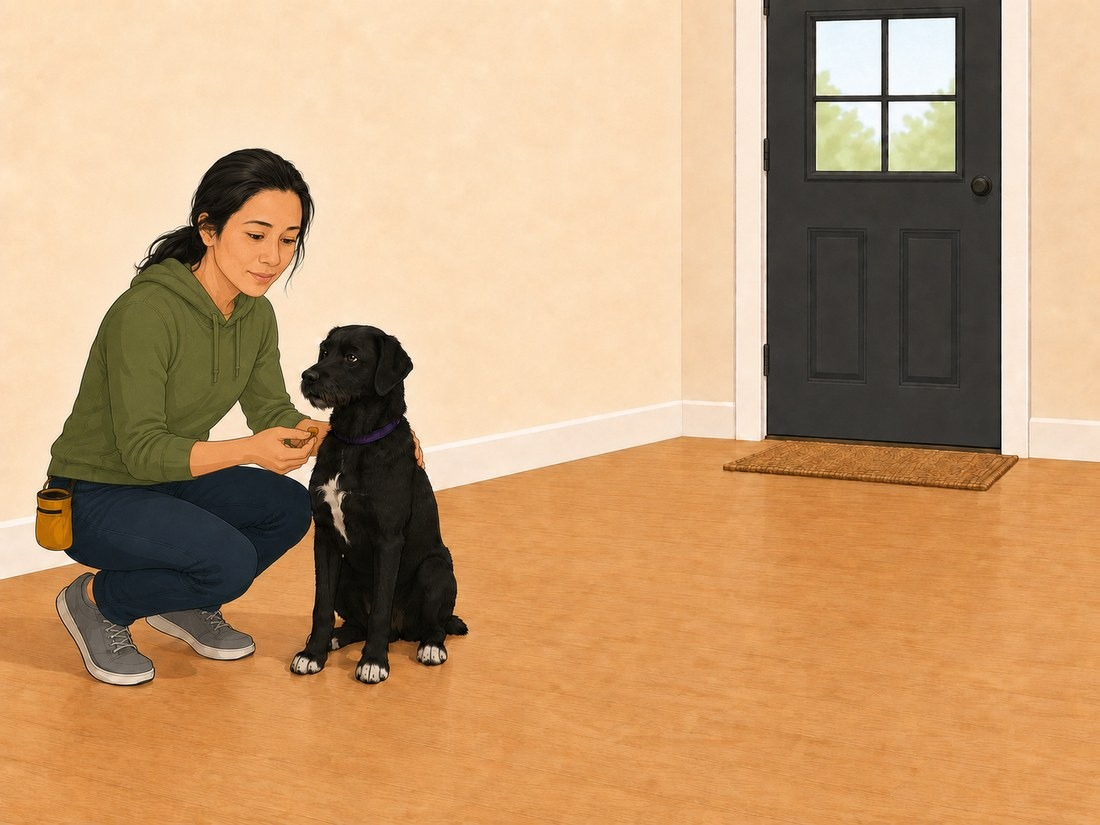
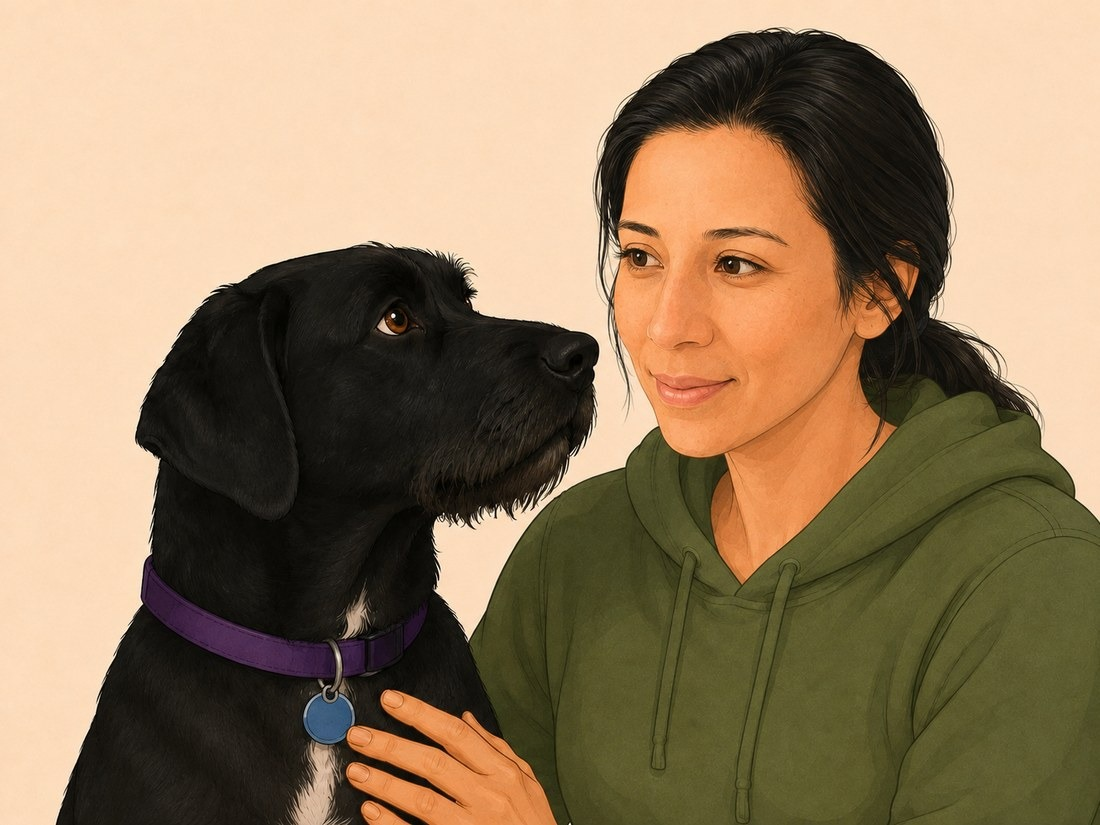
Give the sound cover a picture that survives being 84px
door-sound-cover was scene 1, a wide room shot. It is an activity card
cover before it is anything else, drawn at 84pt with object-fit: cover,
so the square crop discards 12.5% from each side and what reached the
card was two small figures with the handler clipped at the edge. The
cover it replaced was a close-up, which is why the card had been legible.

Scene 31 is that same framing with the new trainer: Lucy head and
shoulders, the two of them face to face, her hand on the chest. It fills
the square the way the old one did.

Alt text follows the picture — there is no door in this one, so the
"well back from the closed front door" clause had to go rather than be
carried over from a scene that no longer exists here.

diff --git a/js/content.js b/js/content.js
@@ -182,7 +182,7 @@ export const IMAGES = withThumb({
   },
   'door-sound-cover': {
     src: 'img/door-sound-cover.jpg',
-    alt: 'A handler crouches beside Lucy well back from the closed front door, offering a treat from her fingers while Lucy sits and takes it.',
+    alt: 'Lucy and her handler close together and face to face, the handler’s hand resting on Lucy’s chest.',
   },
 
   // --- batch 2: the whole of Controlled Real Greeting -----------------------

diff --git a/js/version.js b/js/version.js
@@ -10,7 +10,7 @@
  * The 1.12 lineage continues the old hand-bumped cache names, which reached
  * lucy-learns-v11 before this file existed.
  */
-export const APP_VERSION = '1.136.0';
+export const APP_VERSION = '1.137.0';
 
 /**
  * The day this build went out, shown under the version on the splash.
